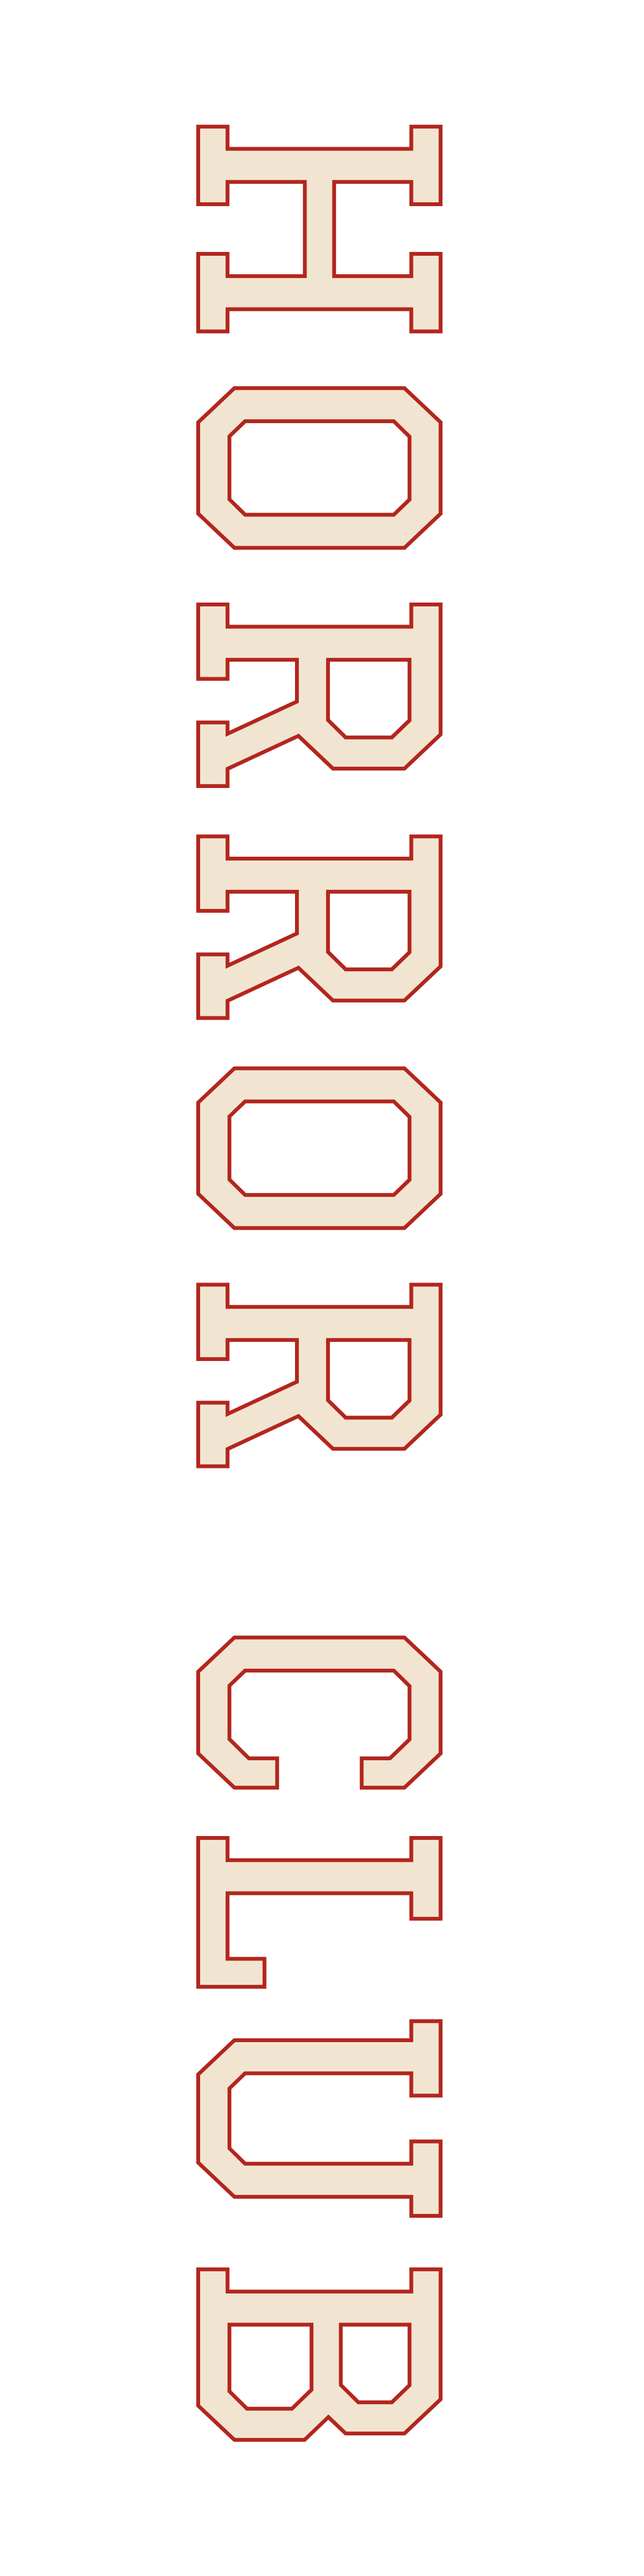
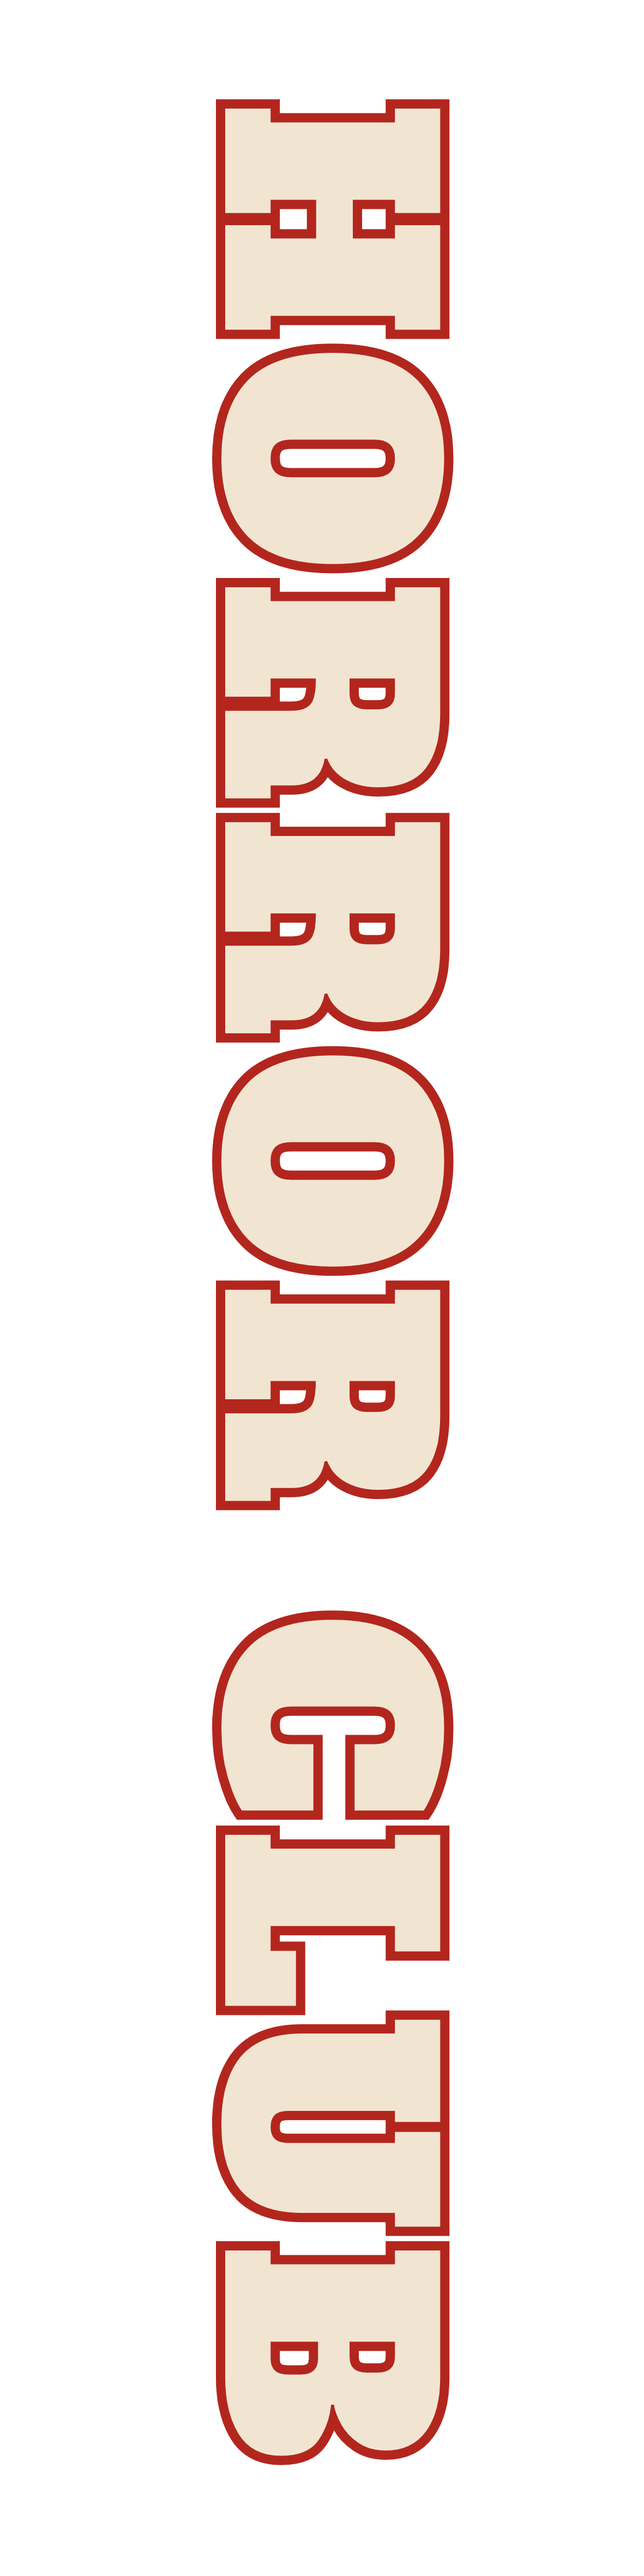
Sleeve drop: heavier Horror Club sleeve lettering; script for the six sleeve products
Claude-Session: https://claude.ai/code/session_01T2BjBwV7d2vTxpMeBzrFvG

Changed region(s): [[0.3048, 0.0311, 0.7011, 0.5912], [0.3048, 0.6224, 0.7011, 0.9646]]

diff --git a/designs/src/render_sleeves.js b/designs/src/render_sleeves.js
@@ -8,11 +8,12 @@ const font = (p) => `data:font/woff2;base64,${fs.readFileSync(path.join(ROOT, p)
 const FACES = `
   @font-face{font-family:Anton;src:url(${font('theme/assets/anton.woff2')})}
   @font-face{font-family:Graduate;src:url(${font('designs/src/fonts/graduate-400.woff2')})}
+  @font-face{font-family:AlfaSlab;src:url(${font('designs/src/fonts/alfa-slab-one-400.woff2')})}
   @font-face{font-family:Orbitron;src:url(${font('designs/src/fonts/orbitron-900.woff2')});font-weight:900}`;
 const W = 4724, H = 1181; // horizontal canvas; rotated to 1181 x 4724
 const STYLES = {
   legends: `font-family:Anton;color:#F1E5D1;letter-spacing:.04em;`,
-  horror: `font-family:Graduate;color:#F1E5D1;-webkit-text-stroke:14px #B3261E;paint-order:stroke fill;letter-spacing:.03em;`,
+  horror: `font-family:AlfaSlab;color:#F1E5D1;-webkit-text-stroke:34px #B3261E;paint-order:stroke fill;letter-spacing:.05em;`,
   signal: `font-family:Orbitron;font-weight:900;font-style:italic;color:#F4F4F4;letter-spacing:.06em;`,
 };
 const SLEEVES = [

diff --git a/printify/create_sleeve_drop.py b/printify/create_sleeve_drop.py
@@ -1,0 +1,127 @@
+"""Sleeve test drop: long-sleeve tees (front + both sleeves) and sleeve-edition hoodies (back + both
+sleeves) for Rise From Ruin, Horror Club and No Signal, on SwiftPOD.
+
+Costs (size M): long sleeve $26.63, hoodie $35.79; Printify shipping $4.49 / $7.99. Priced $37 / $47.
+Sleeve art: designs/sleeves/*.png (designs/src/render_sleeves.js), reads shoulder to cuff.
+
+Usage:
+    python3 printify/create_sleeve_drop.py --commit SHA [--only KEY] [--publish]
+    (without --publish the products are created as drafts in Printify only, for checking mockups)
+"""
+import argparse, json, os, time
+from pathlib import Path
+from create_products import Printify
+
+SHOP = 29509655
+PP = 39  # SwiftPOD
+RAW = "https://raw.githubusercontent.com/Teddyjday94/shopify-store/{c}/designs/sleeves/{n}"
+OUT = Path(__file__).with_name("sleeve_drop.json")
+SIZES = ["S", "M", "L", "XL", "2XL"]
+MARGIN = 0.97
+DESIGNS = {
+    "rise-from-ruin": dict(name="Rise From Ruin", art=("6af37fd36d784ff9e21792ed", 4487, 6723), source="Rise From Ruin Tee",
+        line="Two fighters claw their way out of a burning underworld.", tag="Down bad. Getting up anyway.",
+        sleeves="RISE FROM RUIN down one sleeve, LEGENDS NEVER DIE down the other"),
+    "horror-club": dict(name="Horror Club", art=("6af22ba5ee0bcaece4a095d4", 4199, 4200), source="Horror Club Tee",
+        line="A skeleton and a monster shake on it inside a varsity-patch crest.", tag="Members only. Est. Elsewhere.",
+        sleeves="HORROR CLUB down one sleeve, CREATURE FEATURE down the other"),
+    "no-signal": dict(name="No Signal", art=("6aefc1c50e9d90cc9b63bda3", 4082, 4328), source="No Signal Tee",
+        line="A lone astronaut, a glowing vending machine and a planet that doesn't answer back.", tag="No signal in this universe.",
+        sleeves="NO SIGNAL down one sleeve, IN THIS UNIVERSE down the other"),
+}
+KINDS = {
+    "longsleeve": dict(bp=80, title="{name} Long Sleeve Tee", price=3700, main="front", tags=["tee", "long sleeve", "sleeve print"],
+        bullets=["Full-color front print", "Lettering down both sleeves", "Classic-fit 100% cotton long sleeve", "Printed to order just for you"]),
+    "hoodie": dict(bp=77, title="{name} Sleeve Edition Hoodie", price=4700, main="back", tags=["hoodie", "sleeve print"],
+        bullets=["Big back print", "Lettering down both sleeves", "Heavy blend fleece hoodie", "Printed to order just for you"]),
+}
+
+
+def fill(img, area, top=True):
+    iid, w, h = img
+    aw, ah = area
+    ratio, area_ratio = h / w, ah / aw
+    scale = MARGIN * min(1.0, area_ratio / ratio)
+    hf = scale * ratio / area_ratio
+    y = (1 - MARGIN) / 2 + hf / 2 if top else 0.5
+    return dict(id=iid, x=0.5, y=round(y, 4), scale=round(scale, 4), angle=0)
+
+
+def publish(api, done, pkey):
+    pid = done[pkey]["printify"]
+    for wait in (0, 120, 300, 600):
+        time.sleep(wait)
+        try:
+            api.post(f"/shops/{SHOP}/products/{pid}/publish.json", {
+                "title": True, "description": True, "images": False, "variants": True,
+                "tags": True, "keyFeatures": True, "shipping_template": True})
+            done[pkey]["published"] = True
+            print("published", done[pkey]["title"], flush=True)
+            return
+        except Exception as e:
+            print("  publish retry:", str(e)[:100], flush=True)
+
+
+def main():
+    ap = argparse.ArgumentParser()
+    ap.add_argument("--commit", required=True)
+    ap.add_argument("--only")
+    ap.add_argument("--publish", action="store_true")
+    args = ap.parse_args()
+    api = Printify(os.environ.get("PRINTIFY_API_TOKEN"))
+    done = json.loads(OUT.read_text()) if OUT.exists() else {}
+    shop_products = []
+    for page in range(1, 8):
+        d = api.get(f"/shops/{SHOP}/products.json?limit=50&page={page}")
+        shop_products += d["data"]
+        if page >= d["last_page"]:
+            break
+    uploads = {}
+
+    def up(n):
+        if n not in uploads:
+            r = api.post("/uploads/images.json", {"file_name": n, "url": RAW.format(c=args.commit, n=n)})
+            uploads[n] = (r["id"], r["width"], r["height"])
+        return uploads[n]
+
+    for key, d in DESIGNS.items():
+        for kind, k in KINDS.items():
+            pkey = f"{key}-{kind}"
+            if args.only and args.only not in pkey:
+                continue
+            if pkey in done:
+                if args.publish and not done[pkey].get("published"):
+                    publish(api, done, pkey)
+                    OUT.write_text(json.dumps(done, indent=2))
+                continue
+            vs = api.get(f"/catalog/blueprints/{k['bp']}/print_providers/{PP}/variants.json")["variants"]
+            areas = {}
+            for v in vs:
+                for ph in v["placeholders"]:
+                    if ph["width"] > areas.get(ph["position"], (0, 0))[0]:
+                        areas[ph["position"]] = (ph["width"], ph["height"])
+            ids = [v["id"] for v in vs if v["options"].get("color") == "Black" and v["options"].get("size") in SIZES]
+            src = next(p for p in shop_products if p["title"] == d["source"])
+            tags = sorted({t for t in src["tags"] if t not in ("tee", "womens", "hoodie")} | set(k["tags"]))
+            placeholders = [{"position": k["main"], "images": [fill(d["art"], areas[k["main"]])]}]
+            for side in ("left", "right"):
+                placeholders.append({"position": f"{side}_sleeve",
+                                     "images": [fill(up(f"{key}-{side}.png"), areas[f"{side}_sleeve"], top=False)]})
+            desc = (f"<p>{d['line']}</p><ul>\n" + "".join(f"<li>{b}</li>\n" for b in k["bullets"]) +
+                    f"</ul><p>Sleeves: {d['sleeves']}.</p><p><em>{d['tag']}</em></p>")
+            body = {"title": k["title"].format(name=d["name"]), "description": desc, "tags": tags,
+                    "blueprint_id": k["bp"], "print_provider_id": PP,
+                    "variants": [{"id": i, "price": k["price"], "is_enabled": True} for i in ids],
+                    "print_areas": [{"variant_ids": ids, "placeholders": placeholders}]}
+            p = api.post(f"/shops/{SHOP}/products.json", body)
+            cost = sorted({v["cost"] for v in p["variants"] if v["is_enabled"]})
+            done[pkey] = {"printify": p["id"], "title": body["title"], "cost": cost}
+            OUT.write_text(json.dumps(done, indent=2))
+            print("created", body["title"], p["id"], "cost", [c / 100 for c in cost], flush=True)
+            if args.publish:
+                publish(api, done, pkey)
+                OUT.write_text(json.dumps(done, indent=2))
+
+
+if __name__ == "__main__":
+    main()
